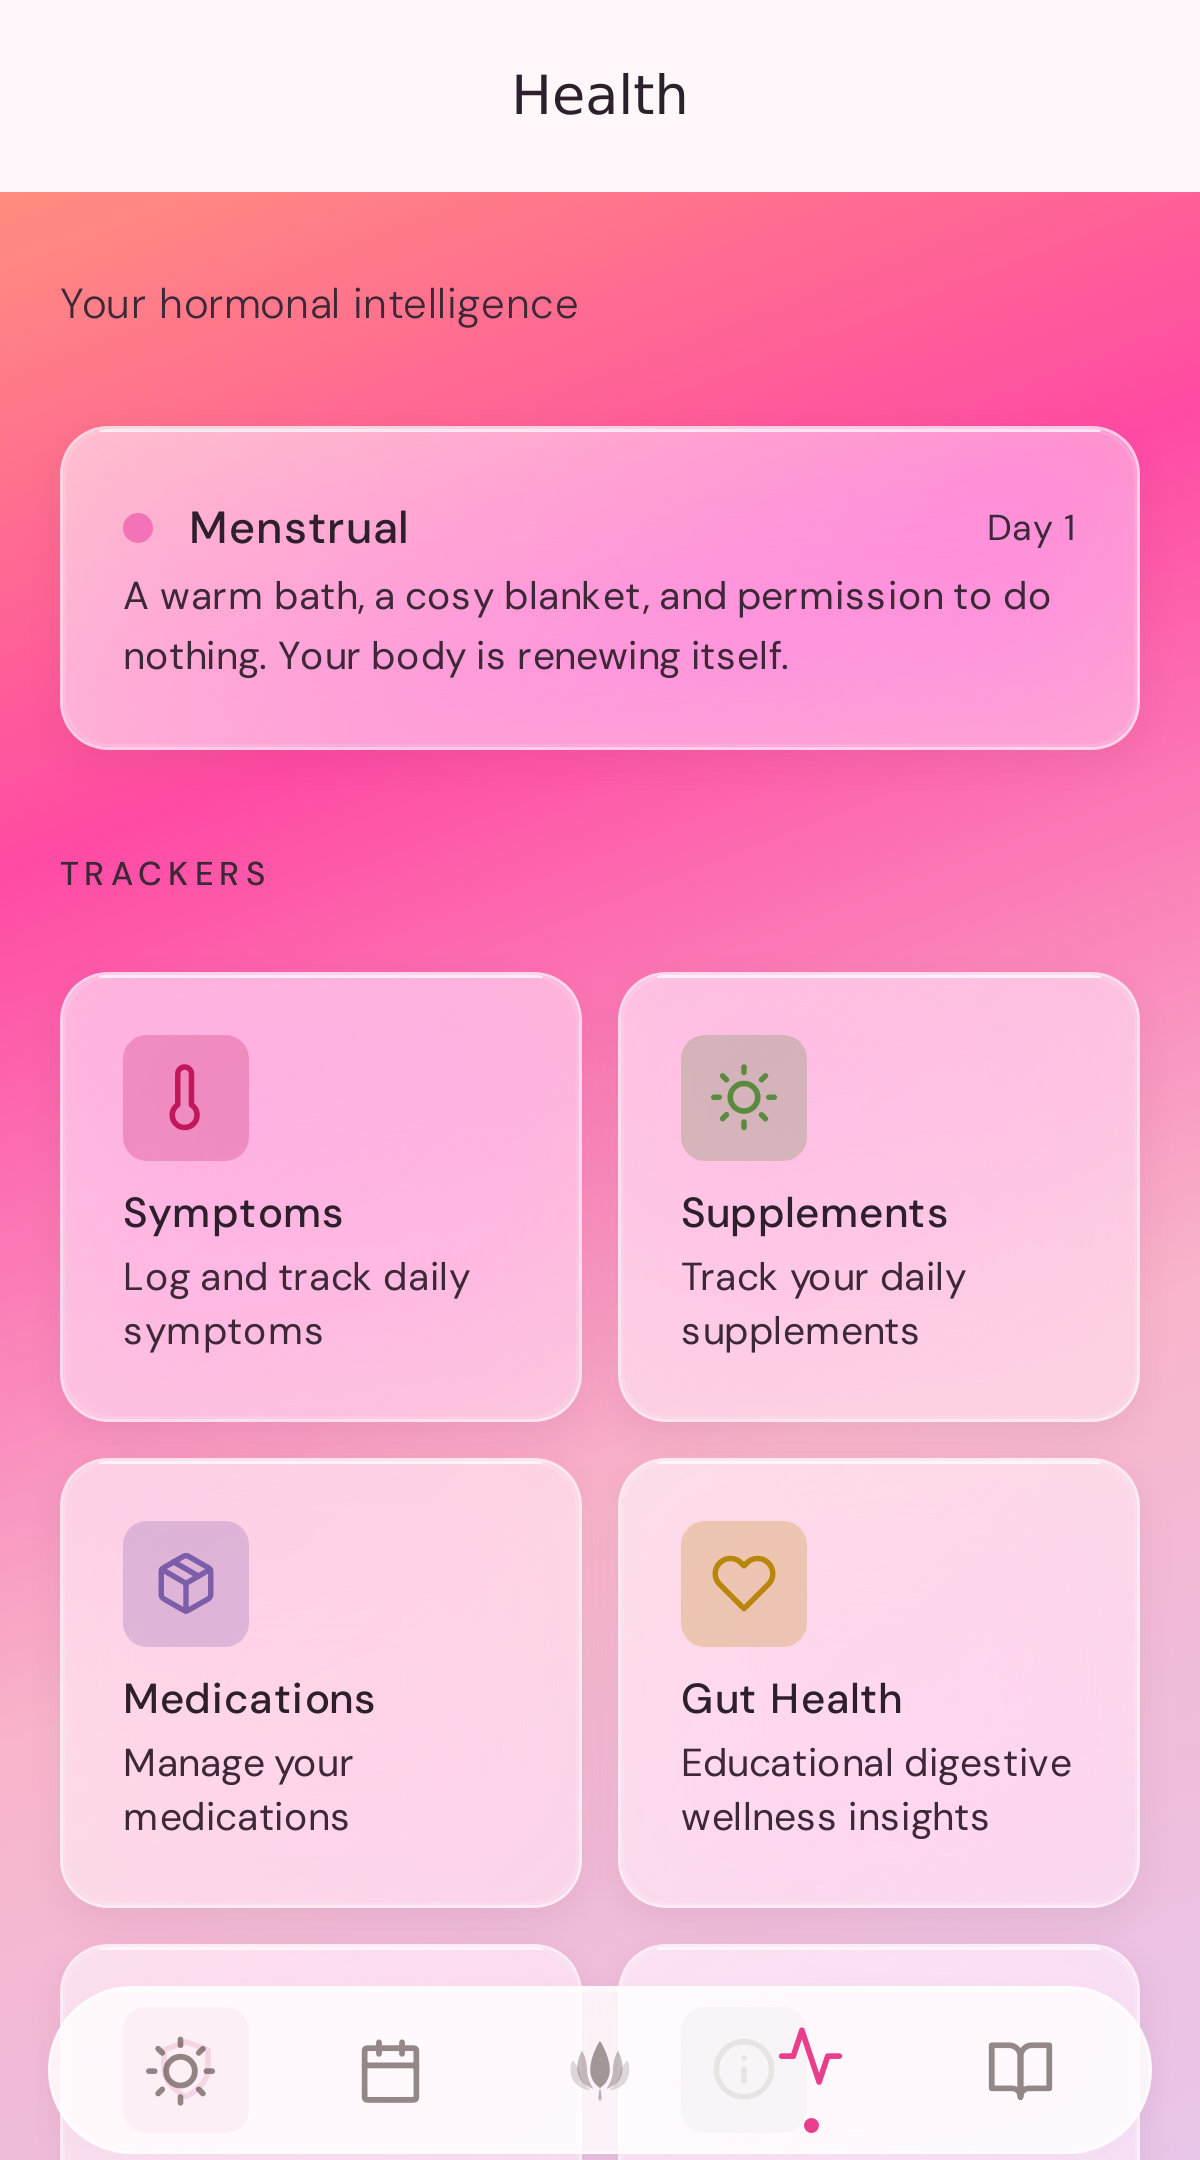
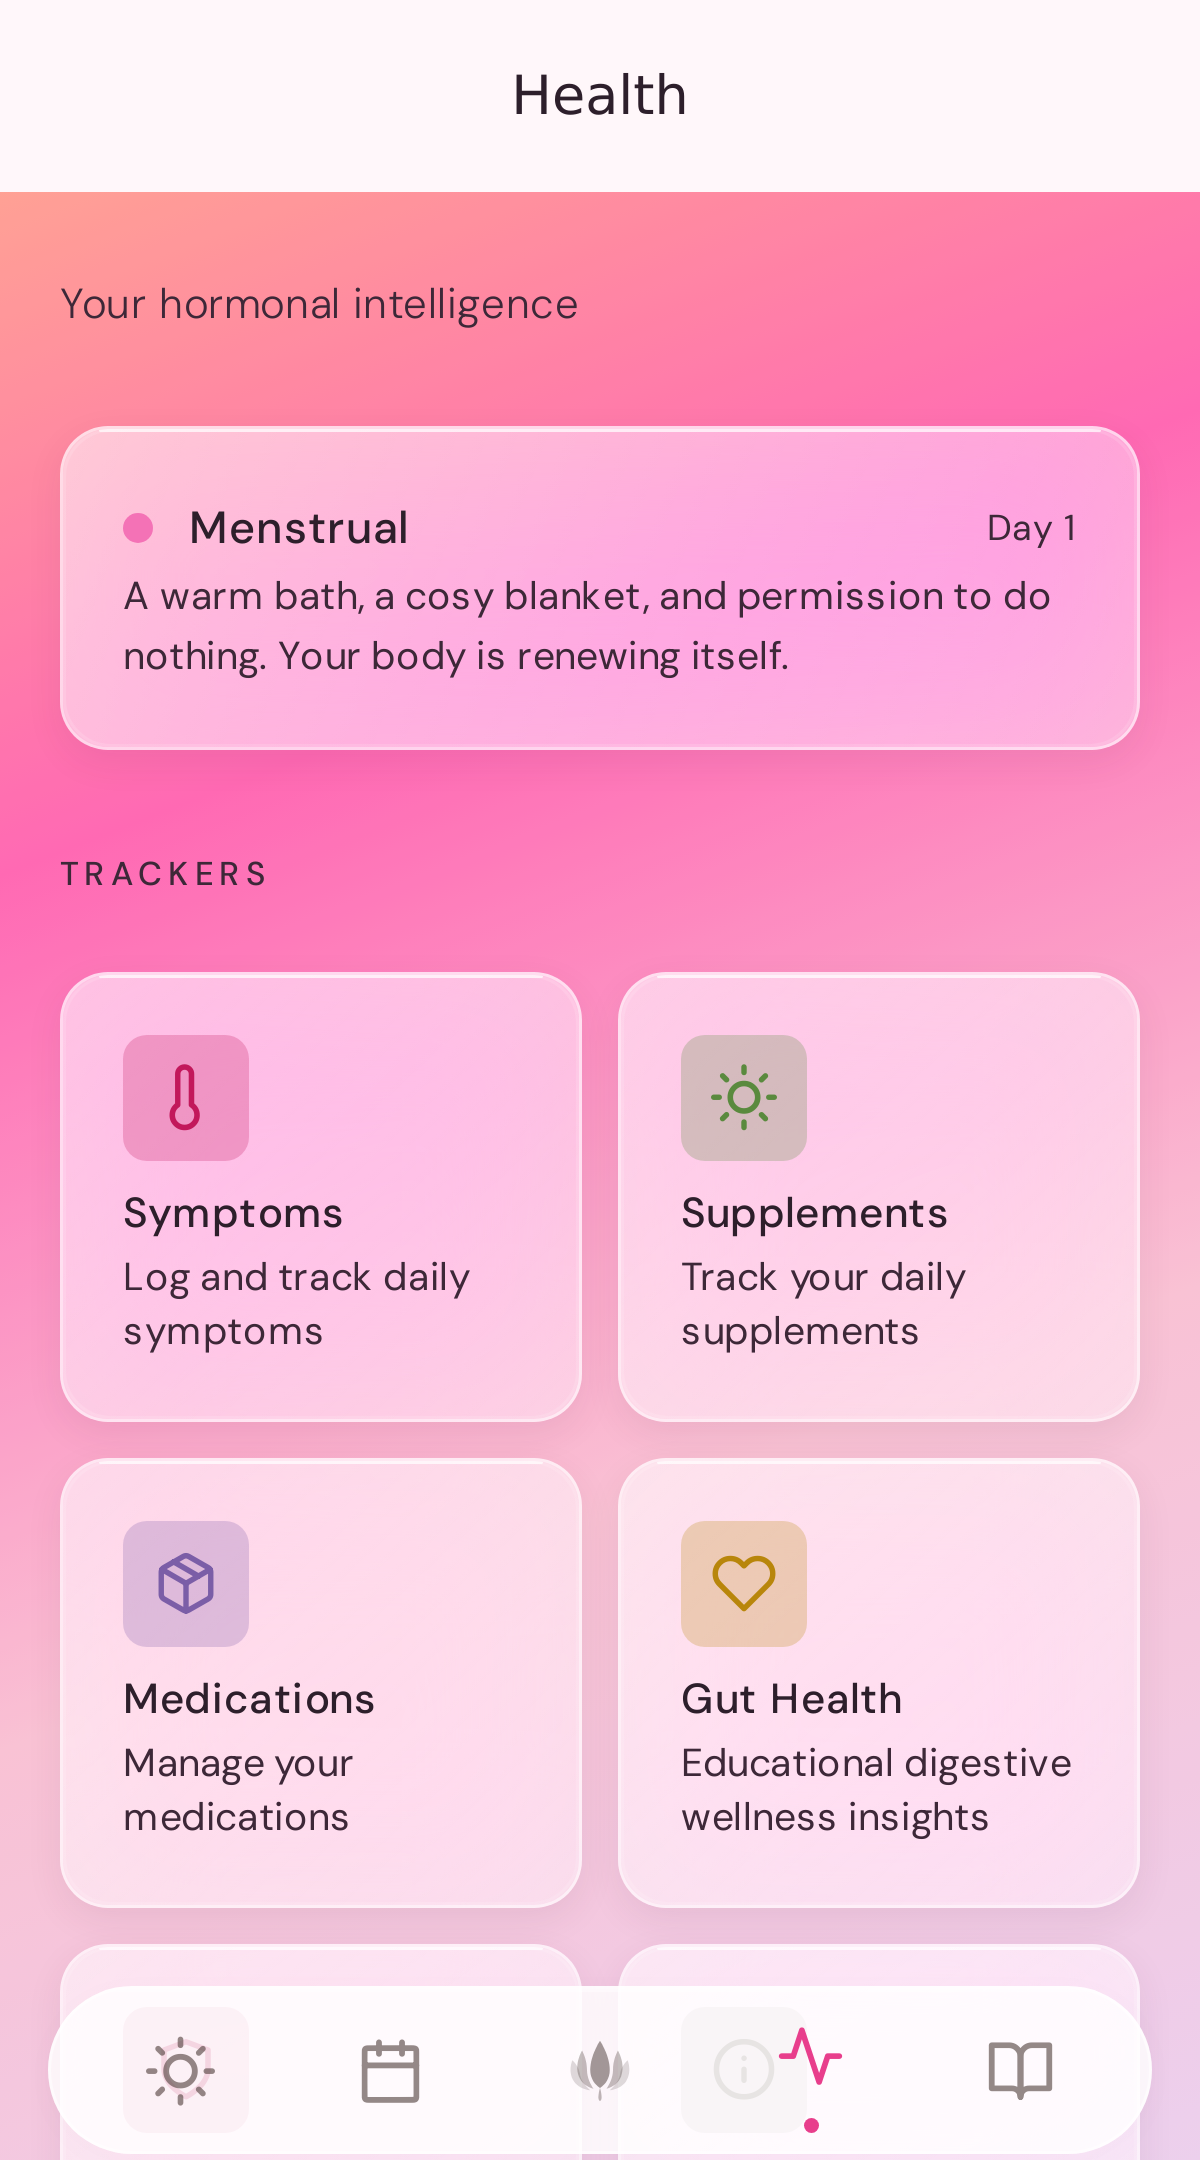
Improve background readability with adjusted gradient overlay
Adjust theme colors for light and dark modes to increase gradient overlay opacity, enhancing text readability and applying this change across all screens.

Replit-Commit-Author: Agent
Replit-Commit-Session-Id: 283083b0-691a-4a06-b38b-9f8570f3359f
Replit-Commit-Checkpoint-Type: full_checkpoint
Replit-Commit-Event-Id: 5e9295db-d61c-46f2-9009-21ea2fbbe285
Replit-Commit-Screenshot-Url: https://storage.googleapis.com/screenshot-production-us-central1/dd925497-1656-4b1f-b3b6-37f0c42171ee/283083b0-691a-4a06-b38b-9f8570f3359f/miIYvWu
Replit-Helium-Checkpoint-Created: true

Changed region(s): [[0.185, 0.062, 1.0, 0.3412], [0.0, 0.2171, 0.8633, 0.5583]]

diff --git a/client/constants/themeColors.ts b/client/constants/themeColors.ts
@@ -75,7 +75,7 @@ export const lightTheme: ThemeColors = {
   },
   
   gradientStops: ["#FF9A6B", "#FF3F9E", "#F7B0C8", "#E7C2E8"] as const,
-  gradientOverlay: "rgba(255, 255, 255, 0.06)",
+  gradientOverlay: "rgba(255, 255, 255, 0.22)",
   
   statusBar: "light",
   
@@ -115,7 +115,7 @@ export const darkTheme: ThemeColors = {
   },
   
   gradientStops: ["#1B0F1E", "#3A1230", "#6B1B4A", "#2A1730"] as const,
-  gradientOverlay: "rgba(0, 0, 0, 0.15)",
+  gradientOverlay: "rgba(0, 0, 0, 0.25)",
   
   statusBar: "light",
   
